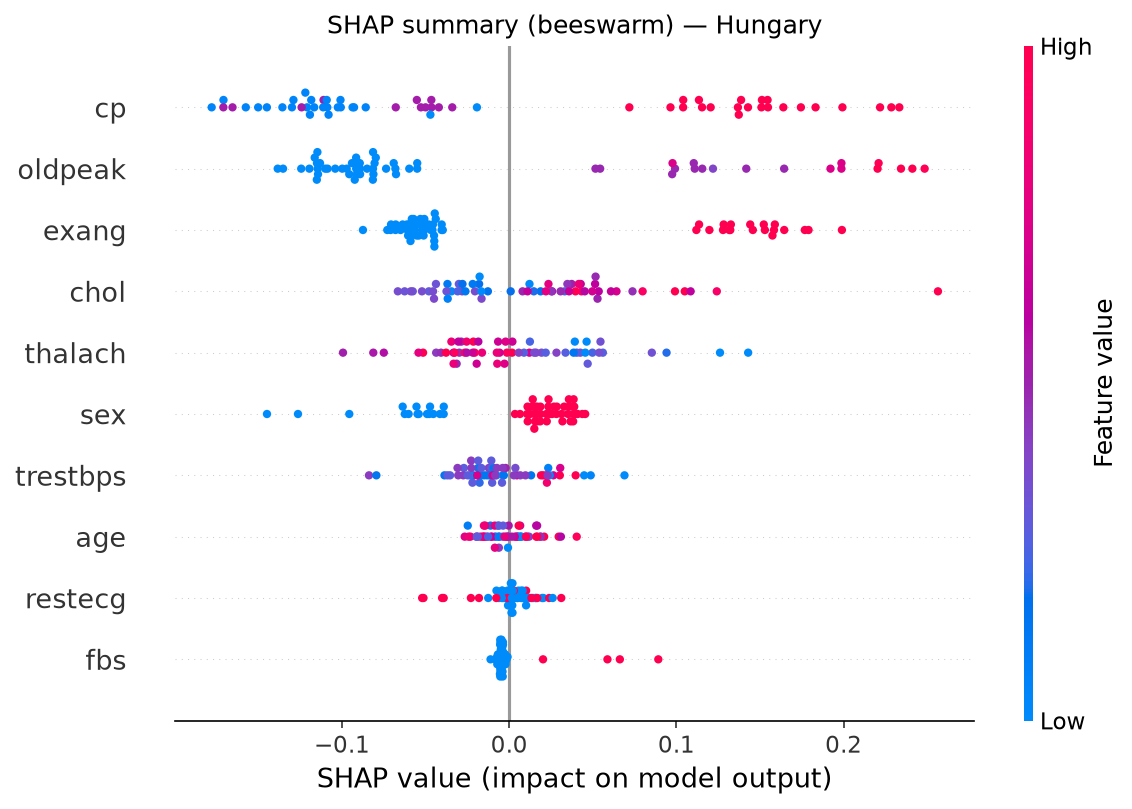
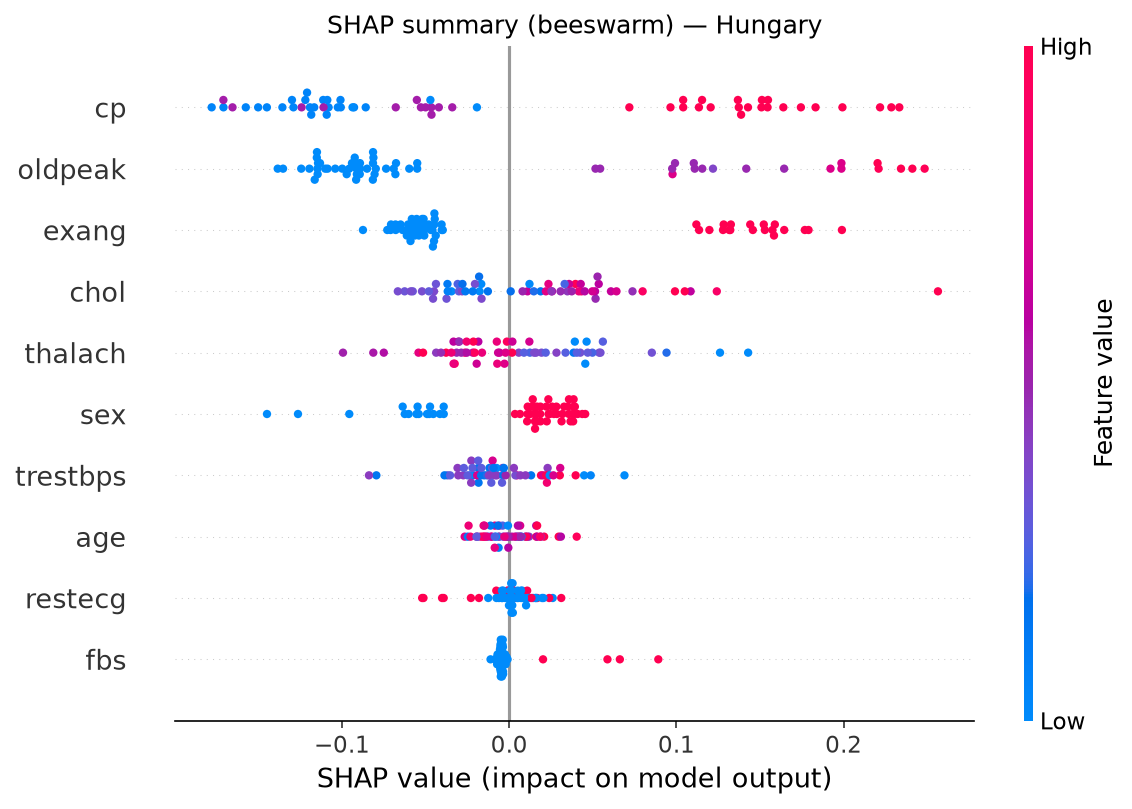
Fix the last reproducibility defect: seed SHAP's beeswarm jitter
Found by a clean-room rebuild. Every generated file was deleted -- data/interim/,
data/clean/ and all of results/ -- leaving only data/raw/ and code/, and the
pipeline was re-run end to end from the README instructions.

git status afterwards reported 2 changed files out of 42, and both were the SHAP
beeswarm PNGs. Every CSV and the other 18 figures came back bit-for-bit.

Cause: shap.plots.beeswarm shuffles and jitters the plotted points using the
UNSEEDED global NumPy RNG (np.random.shuffle and np.random.randn inside
beeswarm()), and the modern API exposes no rng argument to control it -- only the
legacy summary_legacy() does. The SHAP values behind the plots were identical; the
points were merely re-jittered.

Harmless to the analysis, but it meant a figure in the report could not be
regenerated exactly, and anyone re-running the pipeline would see a spurious diff
and have to work out whether it mattered.

Fixed by seeding np.random.seed(SEED) immediately before the call, with the reason
written into the code so it does not get tidied away as a stray line. Verified: two
consecutive runs produce identical MD5s for both beeswarms. The clean-room rebuild
is now byte-identical down to the pixel.

Worth a line in the report's reproducibility statement -- it is a concrete instance
of the general point that XAI tooling carries hidden randomness, which is the same
argument the LIME stability protocol makes quantitatively.

diff --git a/reproduction-001/code/frameworkB.py b/reproduction-001/code/frameworkB.py
@@ -53,6 +53,14 @@ def shap_explain(rf, Xte):
 # figures
 # --------------------------------------------------------------------------- #
 def _beeswarm(expl1, cohort, path):
+    # shap.plots.beeswarm shuffles and jitters the plotted points using the UNSEEDED
+    # global NumPy RNG (np.random.shuffle / np.random.randn inside beeswarm(), see
+    # shap/plots/_beeswarm.py), and the modern API exposes no rng argument to control
+    # it -- only the legacy summary_legacy() does. Without this seed the two beeswarm
+    # PNGs are the ONLY artefacts in the entire project that differ between otherwise
+    # byte-identical runs: the SHAP values behind them are unchanged, just re-jittered.
+    # Seeding here makes the pipeline reproducible down to the pixel.
+    np.random.seed(SEED)
     shap.plots.beeswarm(expl1, show=False, max_display=10)
     plt.title(f'SHAP summary (beeswarm) — {cohort}')
     plt.tight_layout(); plt.savefig(path, dpi=150, bbox_inches='tight'); plt.close()
